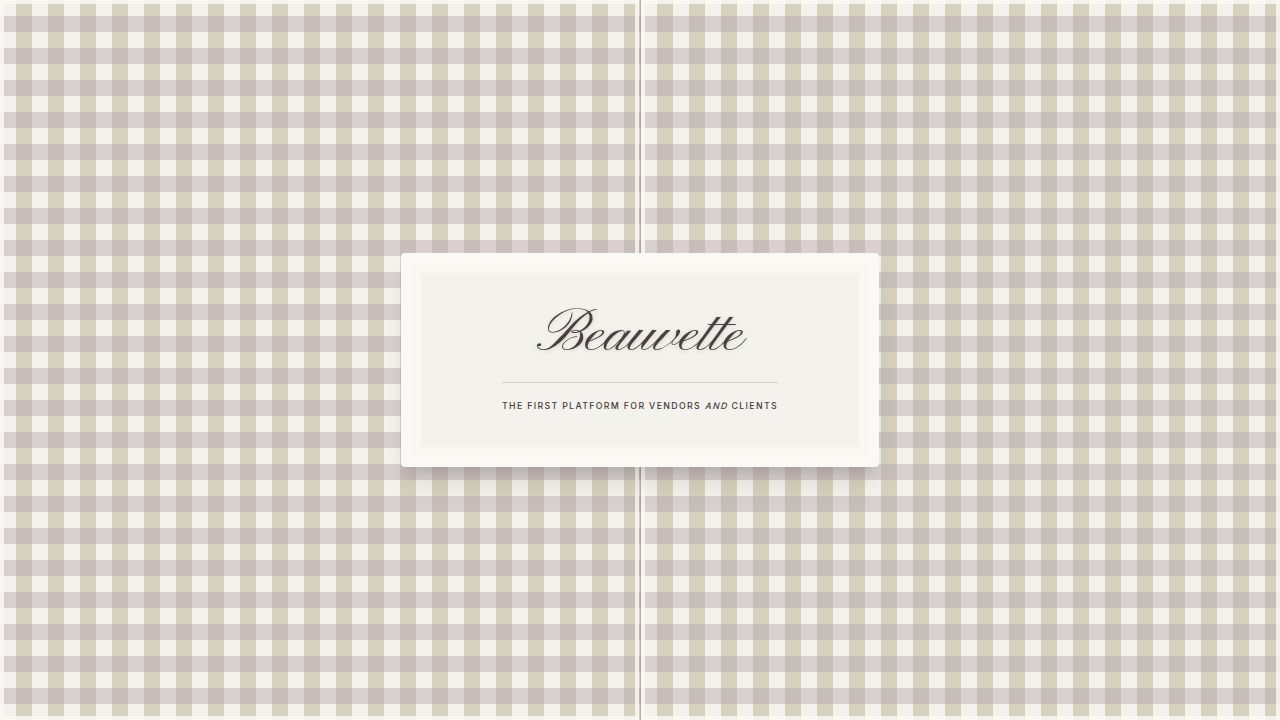
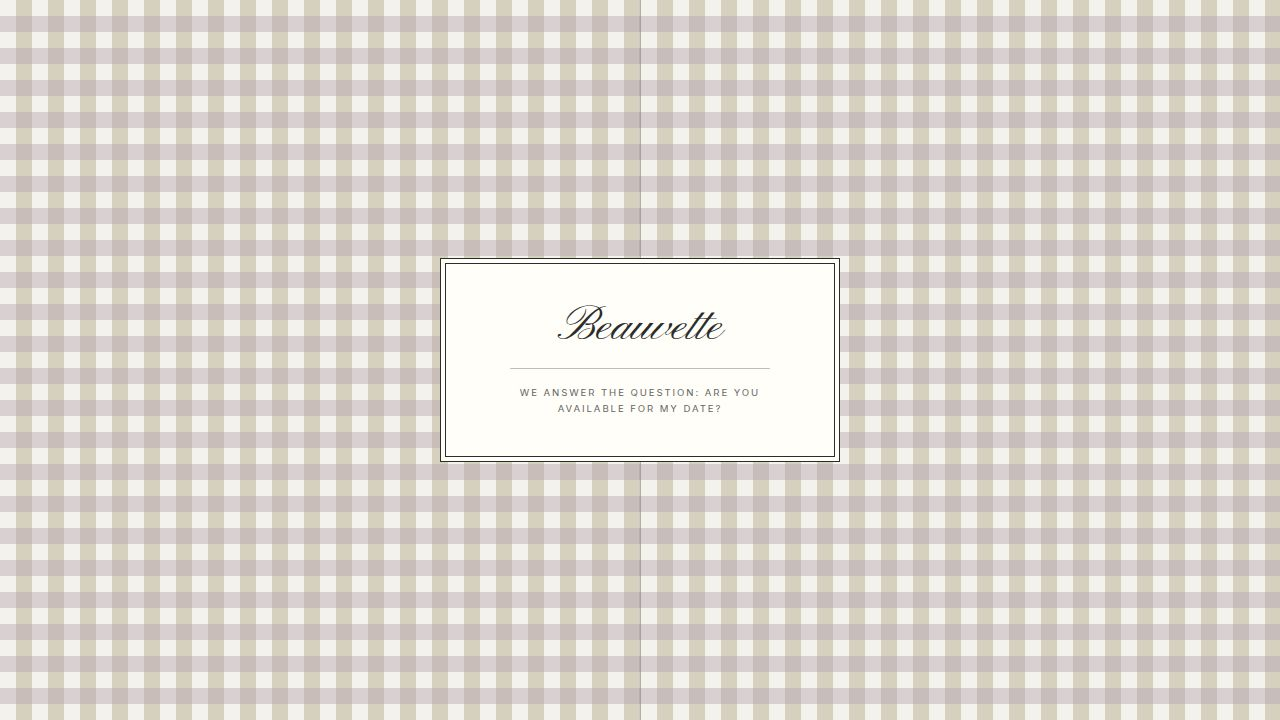
Update landing page wording and remove responsive artists section
Modify the landing page copy to "We answer the question: are you available for my date?" and remove the "View Top Responsive Artists" section and footer "Leaderboard" link.

Replit-Commit-Author: Agent
Replit-Commit-Session-Id: 61e47fb2-881c-4817-8f8c-51c2bed33106
Replit-Commit-Checkpoint-Type: full_checkpoint
Replit-Commit-Event-Id: d74d564d-61f5-47e8-ae66-55c95b79c37d
Replit-Commit-Screenshot-Url: https://storage.googleapis.com/screenshot-production-us-central1/e8599704-1e72-4097-8c86-37ef455a3ec6/61e47fb2-881c-4817-8f8c-51c2bed33106/j9efMQK

diff --git a/client/src/pages/Landing.tsx b/client/src/pages/Landing.tsx
@@ -46,7 +46,7 @@ export default function Landing() {
                     Beauvette
                   </h1>
                   <p className="text-[0.6rem] uppercase tracking-[0.2em] text-[#666] font-normal max-w-[260px] leading-relaxed border-t border-[#2C2C2C]/30 pt-4 mt-2 mx-auto">
-                    The First Platform for Vendors <em className="italic">and</em> Clients
+                    We answer the question: are you available for my date?
                   </p>
                 </div>
               </div>
@@ -78,7 +78,7 @@ export default function Landing() {
               Share your availability.
             </h2>
             <p className="text-lg text-[#666] italic">
-              Beauvette answers the #1 question: "Are you available for my date?"
+              We answer the question: "Are you available for my date?"
             </p>
           </div>
 
@@ -96,19 +96,6 @@ export default function Landing() {
               >
                 Create My Calendar
               </button>
-              
-              <div className="mt-10 pt-6 border-t border-[#2C2C2C]/30">
-                <p className="text-xs text-[#666] mb-4">
-                  Looking for an artist? Browse calendars below:
-                </p>
-                <button
-                  onClick={() => setLocation("/analytics")}
-                  className="text-sm text-[#2C2C2C] hover:underline"
-                  data-testid="button-browse-artists"
-                >
-                  View Top Responsive Artists
-                </button>
-              </div>
             </div>
           </div>
         </main>
@@ -117,21 +104,12 @@ export default function Landing() {
           <p className="text-xs text-[#666] mb-4">
             © 2025 Beauvette. For life's most important days.
           </p>
-          <div className="flex items-center justify-center gap-4">
-            <button
-              onClick={() => setLocation("/login")}
-              className="text-xs text-[#666] hover:text-[#2C2C2C] transition-colors"
-            >
-              Already using Beauvette? Sign in
-            </button>
-            <span className="text-[#ccc]">|</span>
-            <button
-              onClick={() => setLocation("/analytics")}
-              className="text-xs text-[#666] hover:text-[#2C2C2C] transition-colors"
-            >
-              Leaderboard
-            </button>
-          </div>
+          <button
+            onClick={() => setLocation("/login")}
+            className="text-xs text-[#666] hover:text-[#2C2C2C] transition-colors"
+          >
+            Already using Beauvette? Sign in
+          </button>
         </footer>
       </motion.div>
     </div>
